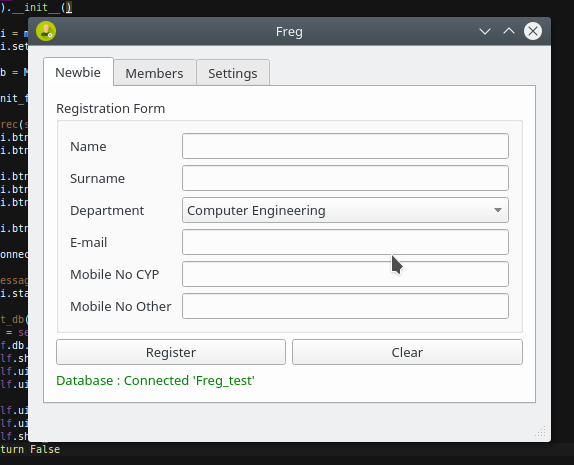
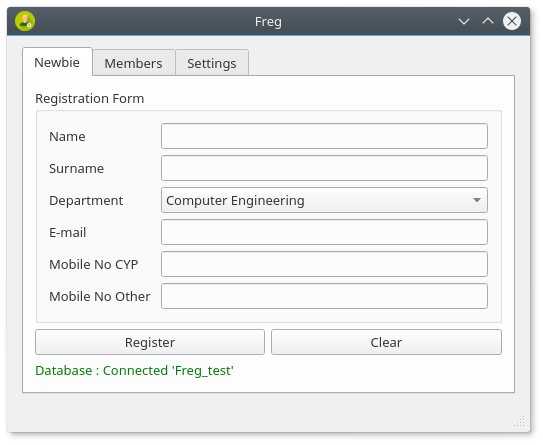
-Screenshot to readme -Typo correction

Changed region(s): [[0.0, 0.0, 1.0, 1.0]]

diff --git a/README.md b/README.md
@@ -3,7 +3,7 @@
 Freg is a program under Faunus project that handle the small registration task. It uses MongoDB as database and PyQt5 as GUI.
 
 Screenshot
-![](www.test^^^^^^**.com/)
+![](https://github.com/furkantokac/Freg/blob/master/src/data/ss/FregV0.0-1.png)
 
 ### Requirements
 * Python3+ (Python2 is not tested.)
